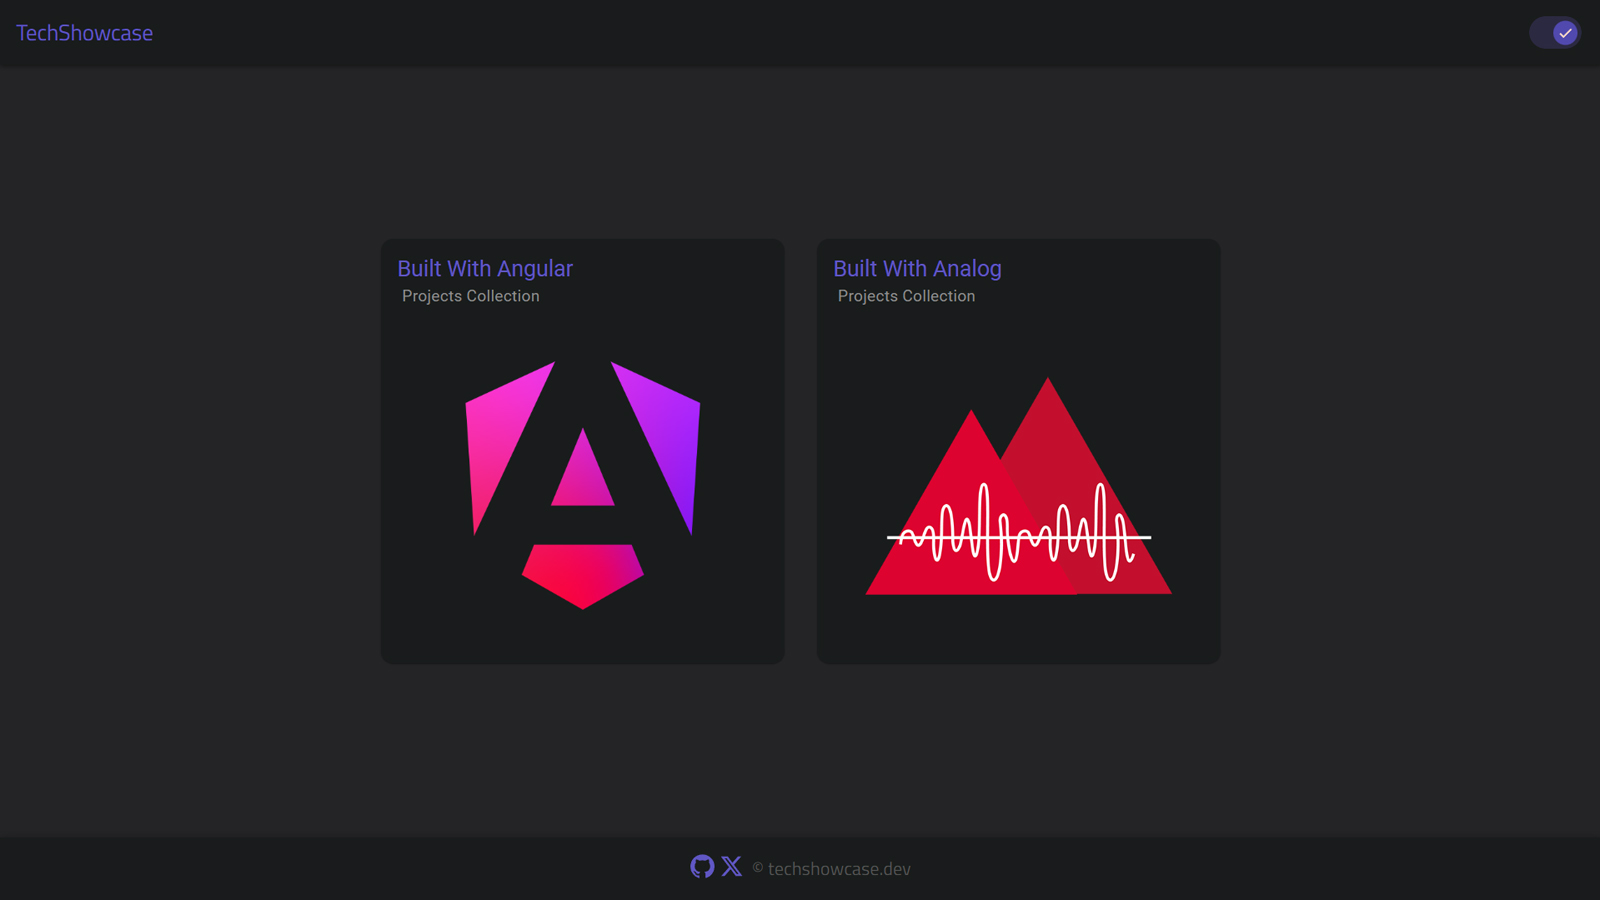
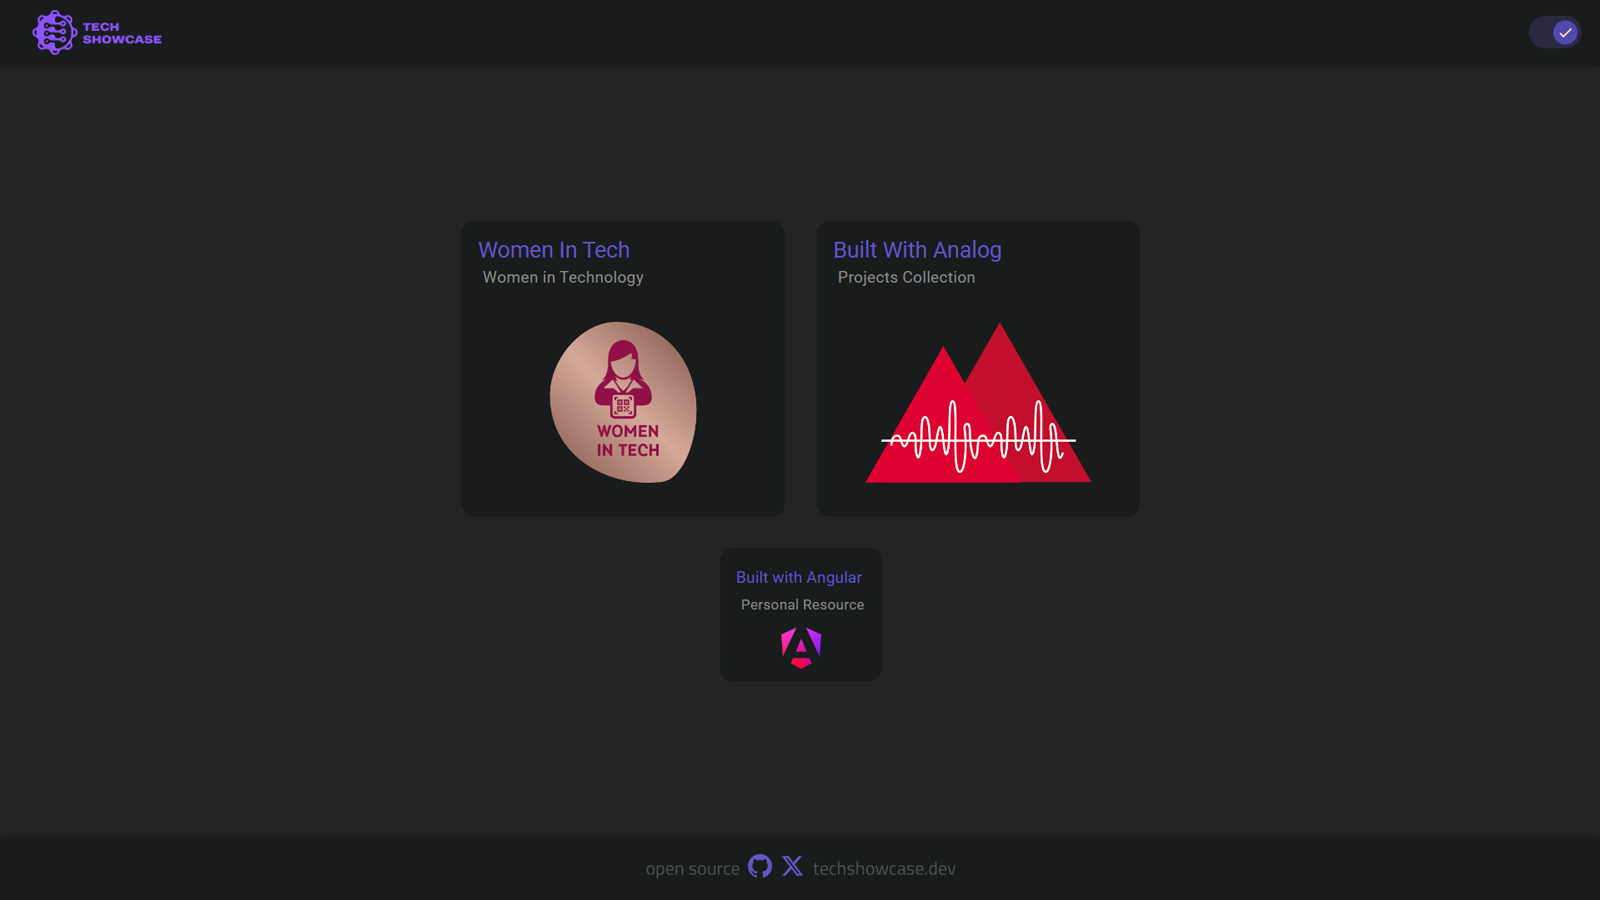
docs

diff --git a/CONTRIBUTING.md b/CONTRIBUTING.md
@@ -84,7 +84,7 @@ Before you submit your Pull Request (PR) consider the following guidelines:
 2. Be sure that an issue describes the problem you're fixing, or documents the design for the feature you'd like to add.
    Discussing the design upfront helps to ensure that we're ready to accept your work.
 
-3. [Fork](https://docs.github.com/en/github/getting-started-with-github/fork-a-repo) the `TechShowcase` repo.
+3. [Fork](https://docs.github.com/en/github/getting-started-with-github/fork-a-repo) the `techshowcase` repo.
 
 4. In your forked repository, make your changes in a new git branch:
 

diff --git a/README.md b/README.md
@@ -4,9 +4,11 @@ This repo contains the code for the [techshowcase.dev](https://techshowcase.dev)
 
 [![TechSowcase](./src/assets/images/techshowcase.jpg)](https://techshowcase.dev)
 
-Showcasing projects:
+Showcasing profiles of Women In Tech:
 
-- [builtwithangular.dev](https://builtwithangular.dev)
+- [womenintech.dev](https://womenintech.dev)
+
+Showcasing projects built with AnalogJS:
 
 - [builtwithanalog.dev](https://builtwithanalog.dev)
 
